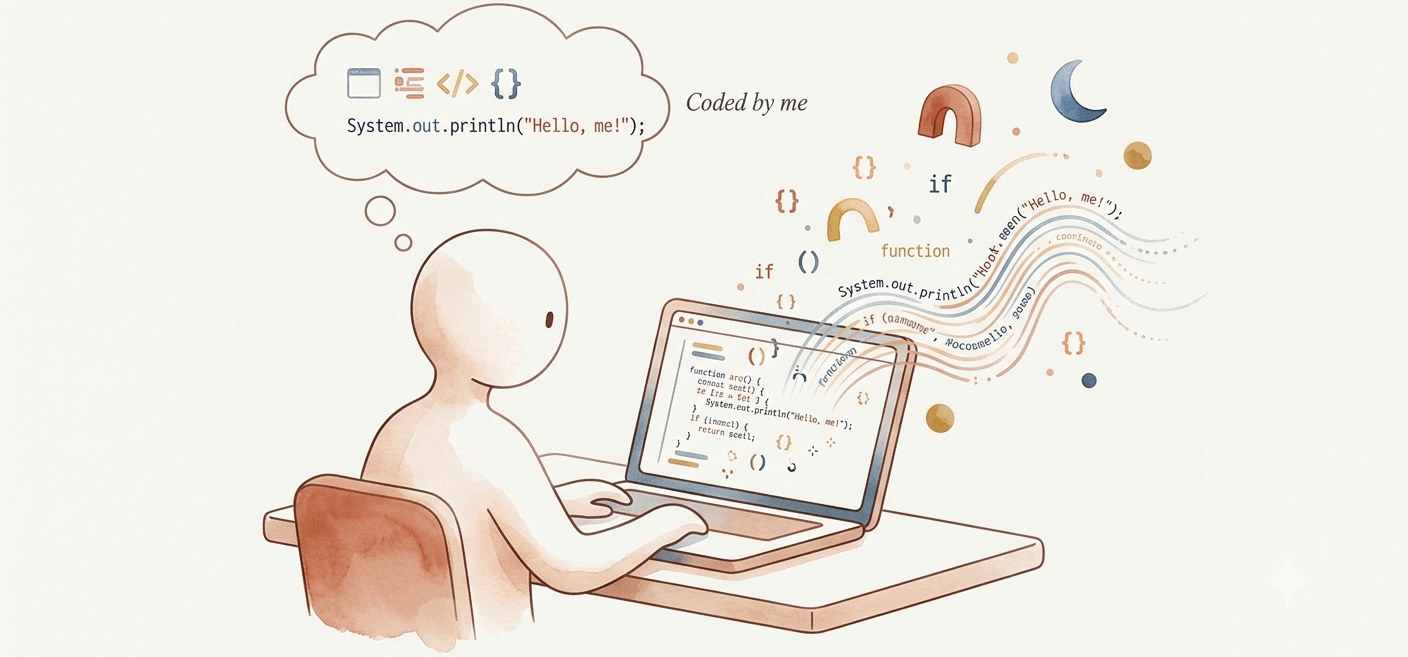
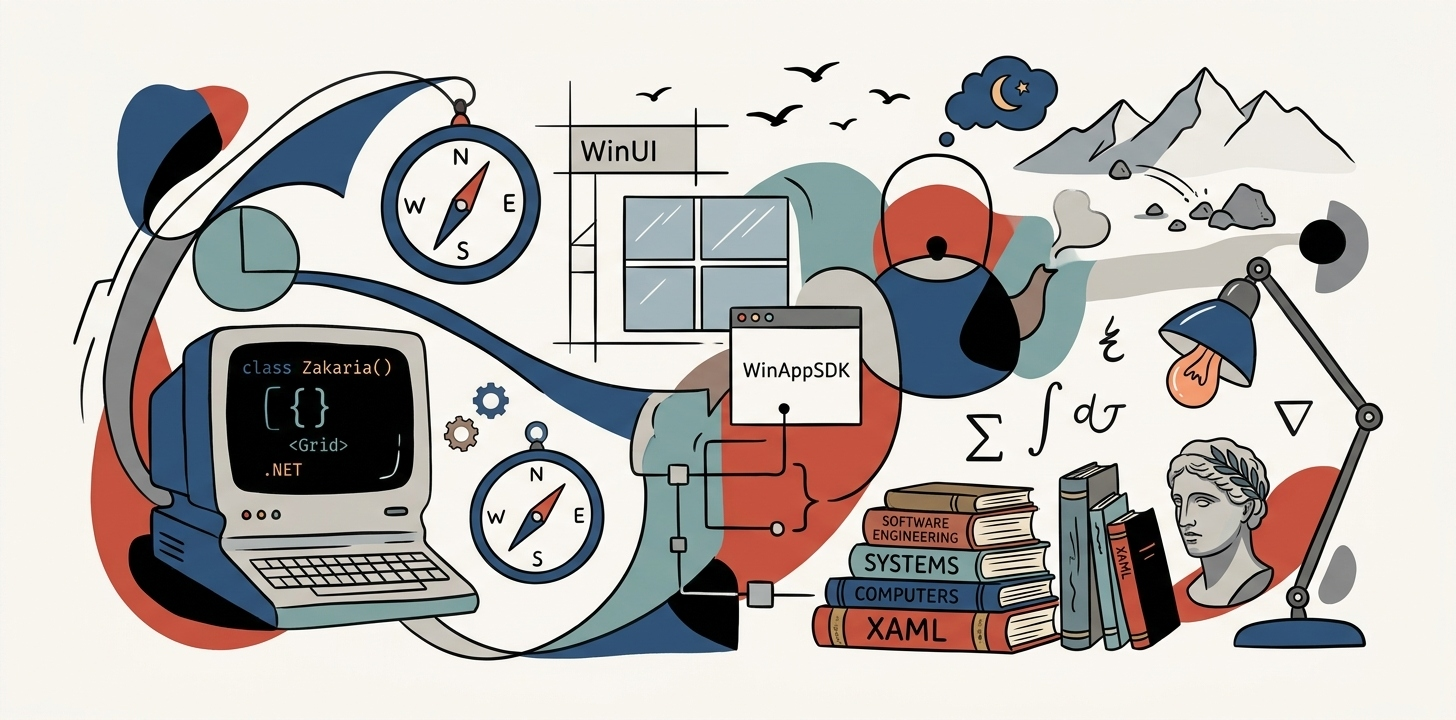
Add first blog post: "The Perfect Image Size for Faster Applications"
- Created a new HTML file for the blog post.
- Included SEO metadata for better search visibility.
- Added content discussing image optimization for application performance.
- Provided practical tips for reducing image sizes.
- Implemented navigation to the previous blog post.

diff --git a/blogs/14.html b/blogs/14.html
@@ -1,0 +1,78 @@
+<!DOCTYPE html>
+<html lang="en">
+
+<head>
+    <meta charset="UTF-8">
+    <meta name="viewport" content="width=device-width, initial-scale=1.0">
+    <title>The First Blog | Zakaria Tahri</title>
+
+    <!-- SEO -->
+    <meta name="description" content="The very first blog post by Zakaria Tahri.">
+    <meta name="keywords" content="Zakaria Tahri, first blog, personal blog, software engineering">
+    <meta name="author" content="Zakaria Tahri" />
+    <meta name="author" content="Zakariathr22" />
+    
+    <!-- Fonts & Styles -->
+    <link href="https://fonts.googleapis.com/css2?family=MedievalSharp&display=swap" rel="stylesheet">
+    <link href="https://fonts.googleapis.com/css2?family=Merriweather&family=Cinzel+Decorative&display=swap"
+        rel="stylesheet">
+    <link rel="stylesheet" href="../css/style.css">
+
+    <link rel="icon" type="image/png" href="../assets/favicon.png">
+</head>
+
+<body>
+    <!-- Top Bar -->
+    <div class="topbar-border">
+        <header class="topbar">
+            <a class="logo" href="../">THR</a>
+
+            <ul class="home-link">
+                <li><a href="../">Home</a></li>
+            </ul>
+        </header>
+    </div>
+
+    <!-- Blog Content -->
+    <main class="container blog-post">
+        <h1 class="magic-title">The Perfect Image Size for Faster Applications</h1>
+        <h3>Keep images lightweight to improve loading speed and application performance.</h3>
+        
+        <p>
+            Large images can slow down applications, increase bandwidth usage, and create a poor user experience. A practical target is to keep most application images at <strong>0.5 MB (500 KB) or less</strong>.
+        </p>
+        <p>
+            You can easily reduce an image to this size using an online tool such as <a href="https://www.simpleimageresizer.com/resize-image-to-0.5-mb" target="_blank">Simple Image Resizer</a>. The tool lets you upload an image, choose the desired file size, and resize it without installing additional software.
+        </p>
+        <p>
+            For even better performance:
+        </p>
+        <ul>
+            <li>Resize images to the dimensions you actually need.</li>
+            <li>Compress images before uploading them.</li>
+            <li>Lazy-load images that aren't immediately visible.</li>
+            <li>Use caching to avoid downloading the same images repeatedly.</li>                    
+        </ul>
+        <p>
+           <strong>The goal isn't to make every image exactly 0.5 MB</strong>. If an image looks good at 100 KB, that's even better. Use the smallest file size that maintains the required quality.
+        </p>
+    </main>
+
+    <!-- Blog Navigation Section -->
+    <section class="blog-nav">
+        <div class="blog-prev">
+            <a href="13.html">⬅ Previous: From Code to Compliance</a>
+        </div>
+    </section>
+
+    <div class="gif-frame">
+        <img src="../assets/placeholder15.jpg" alt="An image proof that I know how to center a div.">
+    </div>
+
+    <!-- Footer -->
+    <footer class="footer">
+        <p>© 2025 Zakaria Tahri. All rights reserved (until AI takes over anyway).</p>
+    </footer>
+</body>
+
+</html>

diff --git a/index.html b/index.html
@@ -294,6 +294,26 @@
         <h2 class="magic-title">Blogs & Posts</h2>
 
         <div class="blogs-grid">
+            <a href="blogs/14.html" class="blog-card">
+                <h3 class="blog-title">
+                    The Perfect Image Size for Faster Applications
+                </h3>
+
+                <p class="blog-subtitle">
+                    Keep images lightweight to improve loading speed and application performance
+                </p>
+
+                <p class="blog-date">Published: Sep 22, 2026</p>
+
+                <div class="tags">
+                    <span class="blog-tag">Performance</span>
+                    <span class="blog-tag">Optimization</span>
+                    <span class="blog-tag">Web Development</span>
+                    <span class="blog-tag">Images</span>
+                    <span class="blog-tag">User Experience</span>
+                    <button class="show-more" onclick="event.preventDefault();">+ More</button>
+                </div>
+            </a>
             <a href="blogs/13.html" class="blog-card">
                 <h3 class="blog-title">
                     From Code to Compliance
@@ -545,7 +565,7 @@
 
             <a href="blogs/2.html" class="blog-card">
                 <h3 class="blog-title">
-                    Control Lifecycle — Event Sequence
+                    Control Lifecycle - Event Sequence
                 </h3>
                 <p class="blog-subtitle">A structured view of initialization, updates, and teardown events</p>
                 <p class="blog-date">Published: Sep 22, 2025</p>

diff --git a/blogs/13.html b/blogs/13.html
@@ -348,6 +348,7 @@
             <a href="12.html">⬅ Previous: A Failed Experiment - Part Two</a>
         </div>
         <div class="blog-next">
+            <a href="14.html">Next: The Perfect Image Size for Faster Applications ➡</a>
         </div>
     </section>
 
